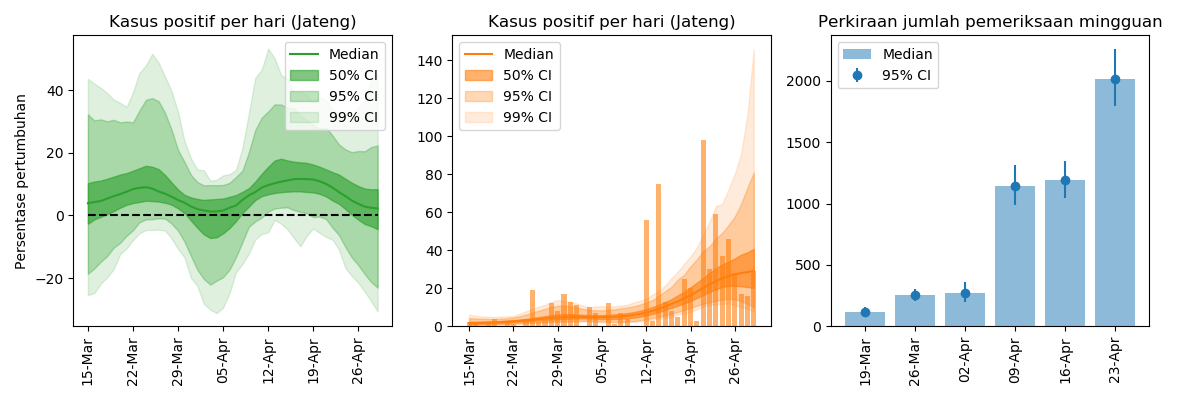
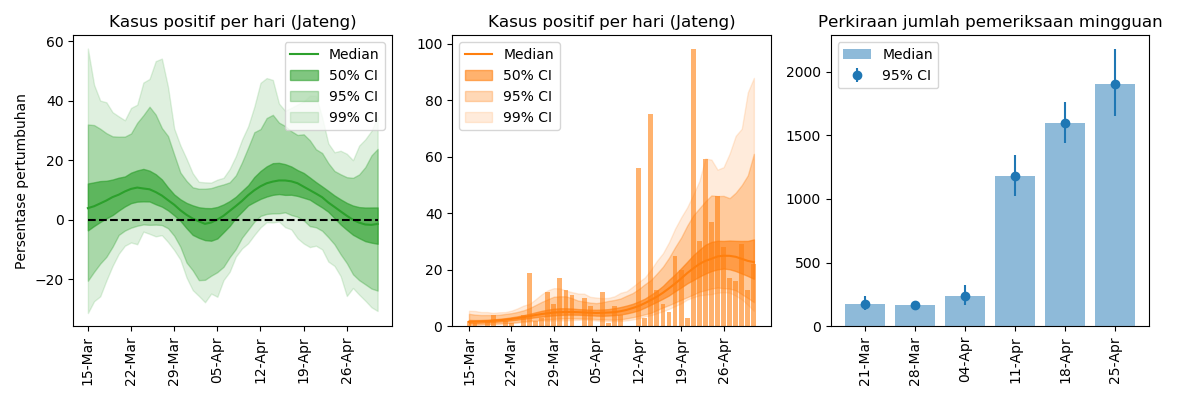
Update percentage

diff --git a/idcovid19.md b/idcovid19.md
@@ -8,47 +8,53 @@ permalink: /idcovid19/
 ## Apakah kurva penyebaran telah turun?
 
 Sumber data: [KawalCOVID19](https://kawalcovid19.id/)<br/>
-Diperbarui pada: 29/04/2020<br/>
+Diperbarui pada: 01/05/2020<br/>
 Metode dapat dilihat di [sini]({{ site.baseurl }}/2020/04/17/COVID19-has-the-curve-flatten/)
 
 #### Indonesia
 
-Probabilitas menurun: \\(56\%\\)<br/>
-Hasil: ada indikasi penurunan, tapi belum dapat dipastikan
+Probabilitas menurun: \\(37\%\\)<br/>
+Hasil: belum dapat disimpulkan
+Estimasi jumlah kasus: 150.000 (95% CI: 99.000 - 260.000)
 
 <img title="Indonesia" src="{{ site.baseurl }}/assets/idcovid19-daily/id_new_cases.png" width="100%"/>
 
 #### Jakarta
 
-Probabilitas menurun: \\(64\%\\)<br/>
+Probabilitas menurun: \\(56\%\\)<br/>
 Hasil: ada indikasi penurunan, tapi belum dapat dipastikan
+Estimasi jumlah kasus: 66.000 (95% CI: 44.000 - 110.000)
 
 <img title="Jakarta" src="{{ site.baseurl }}/assets/idcovid19-daily/idprov_jakarta_new_cases.png" width="100%"/>
 
 #### Jabar
 
-Probabilitas menurun: \\(45\%\\)<br/>
-Hasil: belum dapat disimpulkan
+Probabilitas menurun: \\(82\%\\)<br/>
+Hasil: **kemungkinan** turun
+Estimasi jumlah kasus: 13.000 (95% CI: 9.100 - 27.000)
 
 <img title="Jabar" src="{{ site.baseurl }}/assets/idcovid19-daily/idprov_jabar_new_cases.png" width="100%"/>
 
 #### Jatim
 
-Probabilitas menurun: \\(46\%\\)<br/>
+Probabilitas menurun: \\(27\%\\)<br/>
 Hasil: belum dapat disimpulkan
+Estimasi jumlah kasus: 24.000 (95% CI: 15.000 - 44.000)
 
 <img title="Jatim" src="{{ site.baseurl }}/assets/idcovid19-daily/idprov_jatim_new_cases.png" width="100%"/>
 
 #### Jateng
 
-Probabilitas menurun: \\(39\%\\)<br/>
-Hasil: belum dapat disimpulkan
+Probabilitas menurun: \\(57\%\\)<br/>
+Hasil: ada indikasi penurunan, tapi belum dapat dipastikan
+Estimasi jumlah kasus: 15.000 (95% CI: 9.100 - 29.000)
 
 <img title="Jateng" src="{{ site.baseurl }}/assets/idcovid19-daily/idprov_jateng_new_cases.png" width="100%"/>
 
 #### Sulsel
 
-Probabilitas menurun: \\(36\%\\)<br/>
-Hasil: kurva terlihat turun, tapi jumlah tes juga menurun
+Probabilitas menurun: \\(34\%\\)<br/>
+Hasil: belum dapat disimpulkan
+Estimasi jumlah kasus: 7.200 (95% CI: 4.600 - 14.000)
 
 <img title="Sulsel" src="{{ site.baseurl }}/assets/idcovid19-daily/idprov_sulsel_new_cases.png" width="100%"/>
